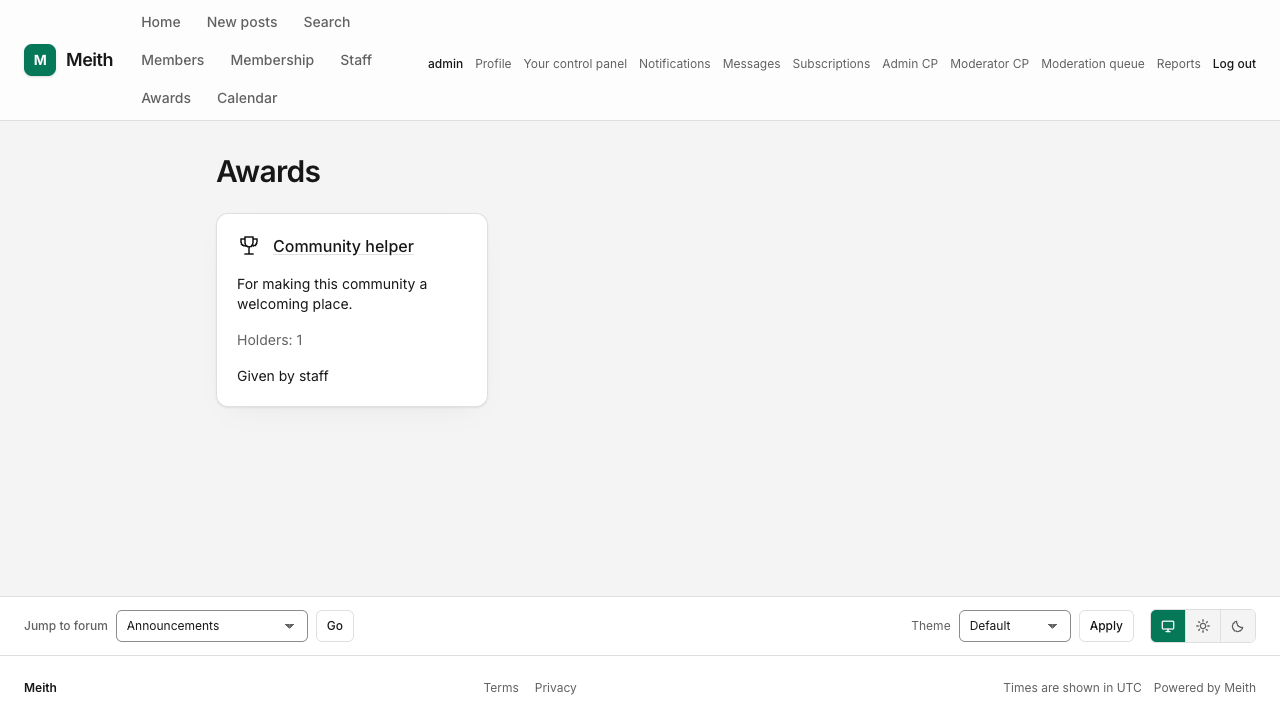
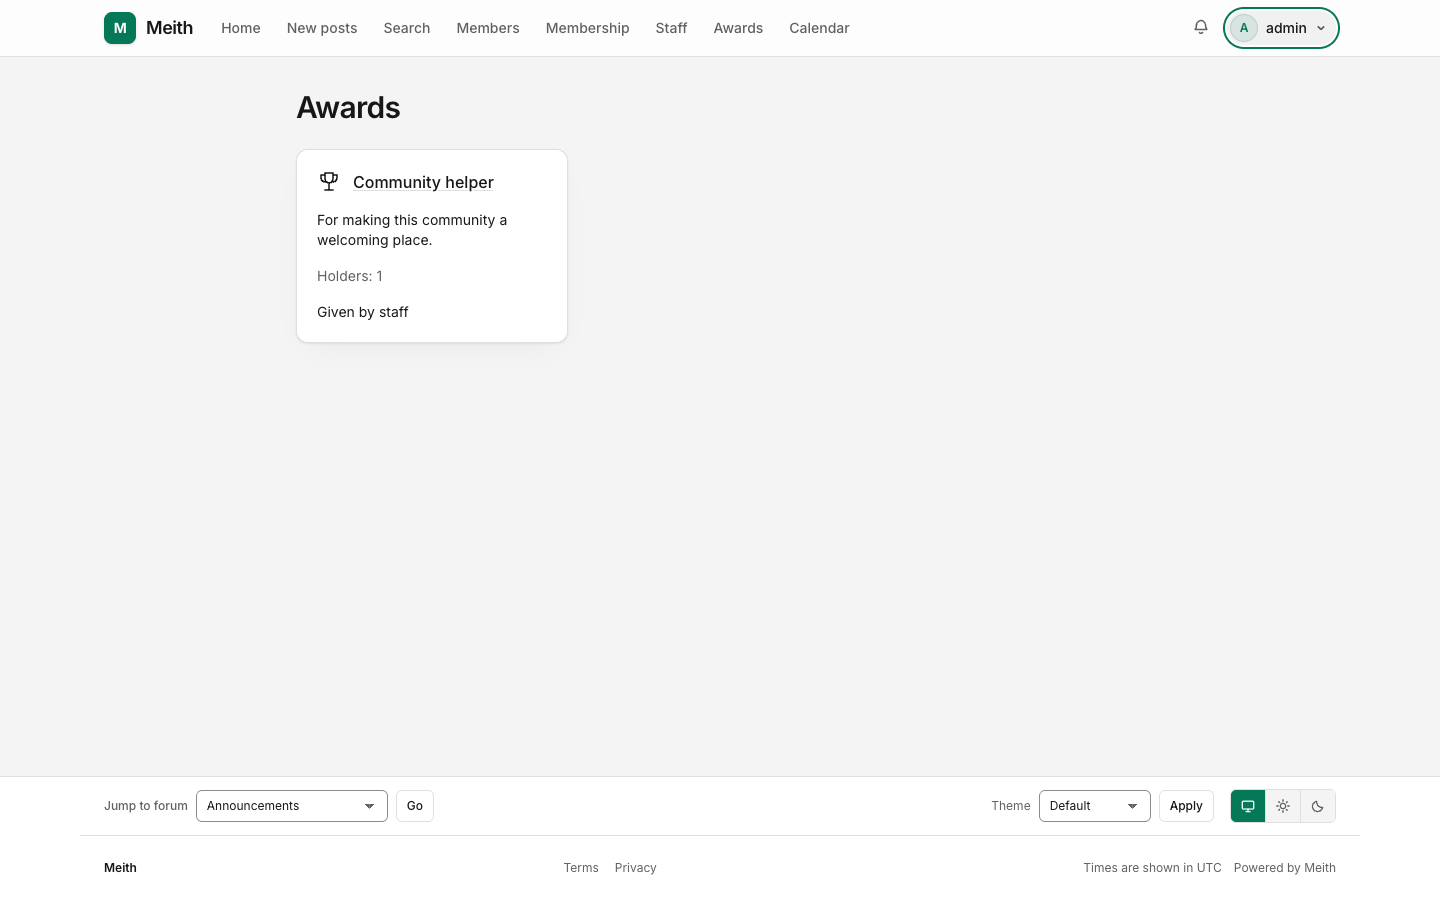
fix(awards): capture enhanced navigation in marketplace screenshot

diff --git a/e2e/awards-no-js.spec.ts b/e2e/awards-no-js.spec.ts
@@ -6,6 +6,7 @@ test.use({ javaScriptEnabled: false })
 
 test('an administrator creates and grants an award visible in the catalogue, profile and postbit', async ({
   page,
+  browser,
 }, testInfo) => {
   test.setTimeout(90_000)
   const username = await signUp(page, 'awards')
@@ -38,7 +39,6 @@ test('an administrator creates and grants an award visible in the catalogue, pro
   await page.goto('/plugins/awards')
   await expect(page.getByRole('link', { name: 'Community helper', exact: true })).toBeVisible()
   await expect(page.getByText('Holders: 1')).toBeVisible()
-  await page.screenshot({ path: testInfo.outputPath('awards-light.png'), fullPage: true })
   await page.getByRole('link', { name: 'Community helper', exact: true }).click()
   await page.getByRole('link', { name: username, exact: true }).click()
   await expect(page.getByText('Thank you for helping new members.')).toBeVisible()
@@ -52,4 +52,32 @@ test('an administrator creates and grants an award visible in the catalogue, pro
     'title',
     'Community helper',
   )
+
+  const preview = await browser.newContext({
+    storageState: await page.context().storageState(),
+    javaScriptEnabled: true,
+    colorScheme: 'light',
+    viewport: { width: 1440, height: 900 },
+  })
+  try {
+    const screenshotPage = await preview.newPage()
+    await screenshotPage.goto(new URL('/plugins/awards', page.url()).href)
+    await expect(screenshotPage.getByText('Holders: 1')).toBeVisible()
+    await expect(screenshotPage.locator('[data-account="plain"]')).toBeHidden()
+    await screenshotPage.getByRole('button', { name: 'Your account', exact: true }).click()
+    await expect(screenshotPage.getByRole('menu')).toBeVisible()
+    await expect(
+      screenshotPage.getByRole('menuitem', { name: 'Profile', exact: true }),
+    ).toBeVisible()
+    await screenshotPage.keyboard.press('Escape')
+    await expect(screenshotPage.getByRole('menu')).toBeHidden()
+    await screenshotPage.evaluate(() => document.fonts.ready)
+    await screenshotPage.screenshot({
+      path: testInfo.outputPath('awards-light.png'),
+      fullPage: true,
+      animations: 'disabled',
+    })
+  } finally {
+    await preview.close()
+  }
 })

diff --git a/docs/contributing/development.md b/docs/contributing/development.md
@@ -746,6 +746,16 @@ driven until search answers; and search is rate-limited, so the
 light-and-dark pair is taken from the stored `/search/<token>` URL rather
 than asking the search route twice.
 
+The Awards marketplace screenshot is captured by
+`pnpm test:e2e:build && pnpm exec playwright test e2e/awards-no-js.spec.ts`.
+The award workflow runs with JavaScript disabled; the screenshot uses a
+separate JavaScript-enabled context with the same session and checks that
+the account dropdown opens and closes. This captures the normal header
+instead of the intentional plain-link account navigation used without
+JavaScript. Copy the resulting `awards-light.png` from `test-results` to
+`marketplace/screenshots/awards-light.png`, then run `pnpm marketplace:gen`
+to update the published copy.
+
 ## The checks that fail on purpose
 
 Several gates in `pnpm verify` exist because something once passed every
